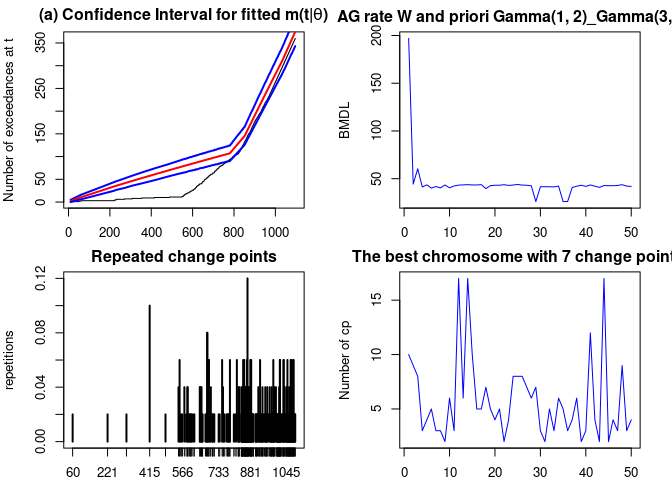
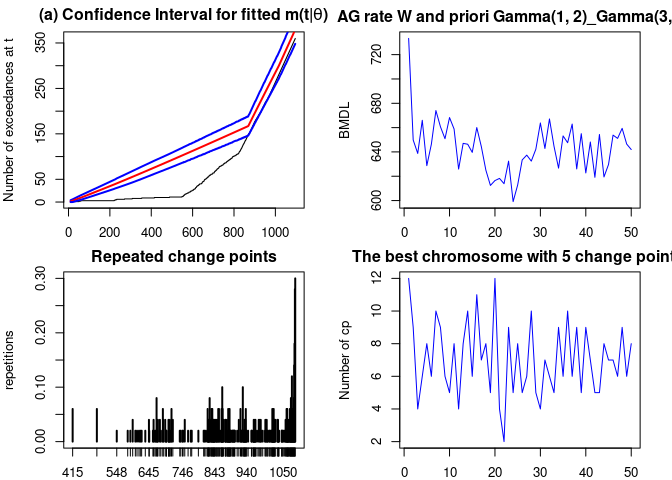
fixed logLik and moved MBIC to nhpp

diff --git a/README.md b/README.md
@@ -90,14 +90,14 @@ augment(cpts)
 tidy(cpts)
 ```
 
-    ## # A tibble: 4 × 12
+    ## # A tibble: 4 × 13
     ##   region   num_obs   min   max  mean    sd exceedances begin   end log_posterior
     ##   <chr>      <int> <dbl> <dbl> <dbl> <dbl> <named lis> <dbl> <int>         <dbl>
     ## 1 [0,547)      546  13.7  92.8  35.3  11.3 <int [11]>      0   547         -60.1
     ## 2 [547,82…     275  20.5 163.   58.1  19.3 <int [95]>    547   822        -198. 
     ## 3 [822,97…     150  39.2 215.   96.7  30.5 <int [129]>   822   972        -150. 
     ## 4 [972,1.…     125  67.2 299.  156.   49.6 <int [125]>   972  1096        -126. 
-    ## # ℹ 2 more variables: alpha <dbl>, beta <dbl>
+    ## # ℹ 3 more variables: logLik <dbl>, alpha <dbl>, beta <dbl>
 
 - `glance()` returns a `tbl` that provides summary statistics for the
   model fit.
@@ -110,8 +110,8 @@ glance(cpts)
     ##   pkg     version algorithm test_stat  MBIC num_cpts num_cpts_max min_seg_length
     ##   <chr>   <chr>   <chr>     <chr>     <dbl>    <int>        <dbl>          <dbl>
     ## 1 change… 2.2.4   PELT      Normal     28.0        4          Inf              2
-    ## # ℹ 5 more variables: s3_logLik <logLik>, s3_AIC <dbl>, s3_BIC <dbl>,
-    ## #   s3_MBIC <dbl>, s3_BMDL <dbl>
+    ## # ℹ 5 more variables: nhpp_logLik <logLik>, nhpp_AIC <dbl>, nhpp_BIC <dbl>,
+    ## #   nhpp_MBIC <dbl>, nhpp_BMDL <dbl>
 
 ### Other methods
 
@@ -165,19 +165,16 @@ DataCPSim |>
 
 ![](README_files/figure-gfm/null-plot-1.png)<!-- -->
 
-- `method = "cpt-manual"`: returns a model with changepoints specified
+- `method = "manual"`: returns a model with changepoints specified
   manually using the `cpts` argument
 
 ``` r
 DataCPSim |>
-  segment(method = "cpt-manual", cpts = c(365, 826)) |>
+  segment(method = "manual", cpts = c(365, 826)) |>
   diagnose()
 ```
 
-    ## method: cpt-manual
-
-    ## 
-    ## Segmenting using manually input changepoints...
+    ## method: manual
 
 ![](README_files/figure-gfm/manual-plot-1.png)<!-- -->
 
@@ -194,6 +191,18 @@ DataCPSim |>
 
 ![](README_files/figure-gfm/amoc-plot-1.png)<!-- -->
 
+- `method = "random"`: returns the best model from a random collection
+
+``` r
+DataCPSim |>
+  segment(method = "random", num_generations = 20) |>
+  diagnose()
+```
+
+    ## method: random
+
+![](README_files/figure-gfm/random-plot-1.png)<!-- -->
+
 ### Genetic BMDL
 
 - `method = "cpt-gbmdl"`: implements the Genetic BMDL heuristic
@@ -204,7 +213,7 @@ DataCPSim |>
 changepoints(lista_AG)
 ```
 
-    ## [1]  780  851  859  863  866  872 1035
+    ## [1]  868  870 1017 1019 1086
 
 ``` r
 plot(lista_AG)
@@ -219,7 +228,7 @@ plot(lista_AG$segmenter)
 ```
 
     ## Se guardo la imagen:
-    ## /tmp/RtmpDLelFR/Fig_4AGBMDL_gbmdl_data_nhpp_W_Gamma(1,_2)_Gamma(3,_1.2)_r_50_k_50__BMDL_25_.rda
+    ## /tmp/RtmpATdCbA/Fig_4AGBMDL_gbmdl_data_nhpp_W_Gamma(1,_2)_Gamma(3,_1.2)_r_50_k_50__BMDL_599_.rda
 
 ![](README_files/figure-gfm/diagnostic-1.png)<!-- -->
 
